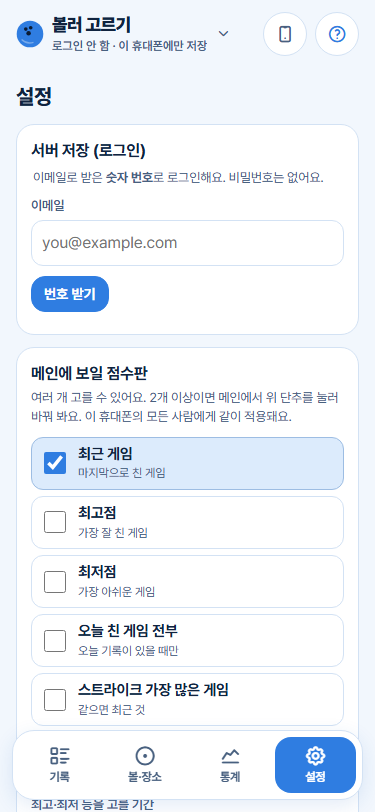
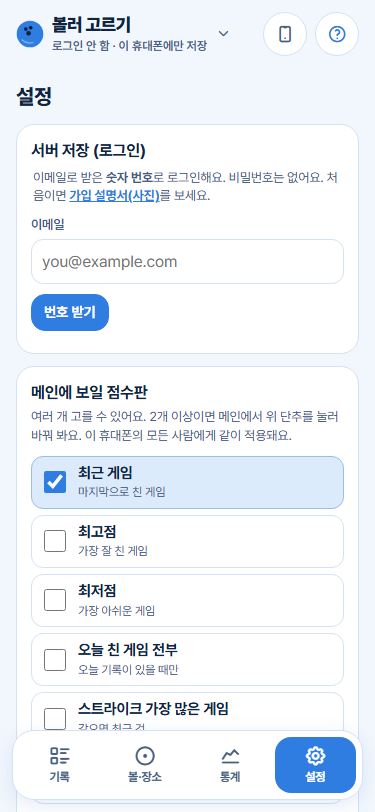
사진 가입 설명서(signup.html) · AI 기본 모델 Haiku · 설명서 사진 찍기 도구

Changed region(s): [[0.0587, 0.2155, 0.9387, 0.9236], [0.088, 0.9852, 0.4107, 1.0], [0.88, 0.2155, 0.9093, 0.2463]]

diff --git a/signup.html b/signup.html
@@ -1,0 +1,211 @@
+<!doctype html>
+<html lang="ko">
+<head>
+<meta charset="utf-8">
+<meta name="viewport" content="width=device-width, initial-scale=1, viewport-fit=cover">
+<meta name="theme-color" content="#f2f7fd">
+<title>볼링 연습일지 가입 설명서</title>
+<link rel="icon" type="image/png" href="icons/icon-192.png">
+<link rel="stylesheet" href="https://cdn.jsdelivr.net/gh/orioncactus/pretendard@v1.3.9/dist/web/variable/pretendardvariable-dynamic-subset.min.css">
+<link rel="stylesheet" href="https://cdn.jsdelivr.net/npm/@tabler/icons-webfont@3.19.0/dist/tabler-icons.min.css">
+<style>
+:root{--bg:#f2f7fd;--card:#fff;--ink:#10233f;--muted:#48607f;--line:#d3e2f4;--accent:#2f7de1;--accent-2:#dcebfc;--hero:#dcebfc;--tip:#fef3c7;--tip-ink:#92400e;--ok:#dcfce7;--ok-ink:#166534;--on-accent:#fff;--frame:#10233f;--red:#ef4444}
+@media (prefers-color-scheme: dark){:root:not([data-theme="light"]){--bg:#0b1424;--card:#121e33;--ink:#e6eef9;--muted:#9fb3cc;--line:#24344f;--accent:#60a5fa;--accent-2:#17304f;--hero:#15294a;--tip:#3a2e0b;--tip-ink:#fcd34d;--ok:#12331f;--ok-ink:#86efac;--on-accent:#0b1424;--frame:#24344f}}
+:root[data-theme="dark"]{--bg:#0b1424;--card:#121e33;--ink:#e6eef9;--muted:#9fb3cc;--line:#24344f;--accent:#60a5fa;--accent-2:#17304f;--hero:#15294a;--tip:#3a2e0b;--tip-ink:#fcd34d;--ok:#12331f;--ok-ink:#86efac;--on-accent:#0b1424;--frame:#24344f}
+*{box-sizing:border-box}
+body{margin:0;background:var(--bg);color:var(--ink);font:17px/1.65 "Pretendard Variable",Pretendard,system-ui,-apple-system,"Apple SD Gothic Neo","Malgun Gothic",sans-serif;letter-spacing:-.01em}
+.ti{vertical-align:-.12em}
+header{padding:20px 16px 4px;padding-top:calc(20px + env(safe-area-inset-top))}
+header .in{max-width:760px;margin:0 auto;background:var(--hero);border:1px solid var(--line);border-radius:22px;padding:20px}
+h1{margin:0;font-size:26px;font-weight:900;letter-spacing:-.03em}
+header p{margin:6px 0 0;color:var(--muted)}
+.btns{display:flex;gap:8px;flex-wrap:wrap;margin-top:14px}
+.back{display:inline-flex;align-items:center;gap:6px;min-height:48px;background:var(--accent);color:var(--on-accent);text-decoration:none;border-radius:14px;padding:8px 18px;font-weight:700}
+.back.line{background:var(--card);color:var(--accent);border:1px solid var(--line)}
+main{max-width:760px;margin:0 auto;padding:12px 16px 40px}
+.need{background:var(--card);border:1px solid var(--line);border-radius:18px;padding:16px;margin-bottom:16px}
+.need h2{margin:0 0 10px;font-size:19px}
+.need ul{list-style:none;margin:0;padding:0;display:grid;gap:8px}
+.need li{display:flex;gap:12px;align-items:flex-start;background:var(--accent-2);border-radius:14px;padding:10px 12px}
+.need li i{font-size:26px;color:var(--accent);flex:none;margin-top:2px}
+.need li b{display:block}
+.need li span{font-size:15px;color:var(--muted)}
+.step{display:grid;grid-template-columns:1fr 240px;gap:18px;align-items:start;background:var(--card);border:1px solid var(--line);border-radius:18px;padding:18px;margin-bottom:14px}
+.step.noshot{grid-template-columns:1fr}
+.step h2{display:flex;align-items:center;gap:10px;margin:0 0 8px;font-size:21px;font-weight:900;letter-spacing:-.02em}
+.num{display:inline-flex;align-items:center;justify-content:center;width:38px;height:38px;border-radius:50%;background:var(--accent);color:var(--on-accent);font-weight:900;font-size:19px;flex:none}
+.do{font-size:19px;font-weight:700;margin:4px 0 8px}
+.step p{margin:6px 0}
+.key{display:inline-block;border:1px solid var(--line);background:var(--accent-2);color:var(--accent);border-radius:8px;padding:0 8px;font-weight:800;white-space:nowrap}
+.red{color:var(--red);font-weight:800}
+.tip{background:var(--tip);border-radius:12px;padding:10px 14px;font-size:15px;margin-top:10px}
+.tip b{color:var(--tip-ink)}
+.ok{background:var(--ok);color:var(--ok-ink);border-radius:12px;padding:10px 14px;font-size:15px;margin-top:10px;font-weight:600}
+.shot{margin:0}
+.shot img{display:block;width:100%;border-radius:20px;border:5px solid var(--frame);background:var(--frame);cursor:zoom-in}
+.shot figcaption{font-size:13px;color:var(--muted);text-align:center;margin-top:6px}
+.addr{display:block;margin:8px 0;padding:12px 14px;border-radius:12px;background:var(--accent-2);color:var(--accent);font-weight:800;word-break:break-all;text-decoration:none}
+.two{display:grid;grid-template-columns:1fr 1fr;gap:10px;margin-top:8px}
+.two div{border:1px solid var(--line);border-radius:12px;padding:10px 12px;font-size:15px}
+.two b{display:block;margin-bottom:4px}
+.faq{background:var(--card);border:1px solid var(--line);border-radius:18px;padding:6px 16px;margin-top:20px}
+.faq h2{font-size:20px;margin:12px 0 4px}
+details{border-top:1px solid var(--line);padding:12px 0}
+details:first-of-type{border-top:0}
+summary{font-weight:800;cursor:pointer;min-height:32px}
+details p,details ul{margin:6px 0 0;font-size:16px}
+.viewer{position:fixed;inset:0;background:rgba(0,0,0,.9);display:flex;align-items:center;justify-content:center;z-index:9}
+.viewer img{max-width:100%;max-height:100%}
+footer{text-align:center;color:var(--muted);font-size:13px;padding:10px 0 30px}
+@media (max-width:640px){
+  .step{grid-template-columns:1fr}
+  .shot{max-width:280px;margin:6px auto 0}
+  .two{grid-template-columns:1fr}
+}
+</style>
+</head>
+<body>
+<header><div class="in">
+  <h1>가입 설명서</h1>
+  <p>기록을 서버에도 저장하려면 처음 한 번 가입해요. 천천히 해도 <b>5분</b>이면 끝나요. 사진에서 <span class="red">빨간 테두리</span>를 누르면 돼요.</p>
+  <div class="btns">
+    <a class="back" href="./#settings"><i class="ti ti-arrow-left" aria-hidden="true"></i> 앱으로 가기</a>
+    <a class="back line" href="help.html"><i class="ti ti-book" aria-hidden="true"></i> 전체 사용 설명서</a>
+  </div>
+</div></header>
+<main>
+  <section class="need">
+    <h2>준비할 것 3가지</h2>
+    <ul>
+      <li><i class="ti ti-device-mobile" aria-hidden="true"></i><div><b>휴대폰</b><span>볼링 연습일지 앱(주소)을 연 휴대폰</span></div></li>
+      <li><i class="ti ti-mail" aria-hidden="true"></i><div><b>이메일 주소</b><span>지금 메일을 열어 볼 수 있는 주소 (네이버·지메일·다음 다 돼요). 비밀번호는 필요 없어요.</span></div></li>
+      <li><i class="ti ti-key" aria-hidden="true"></i><div><b>초대 코드</b><span>모임 단톡방에서 받은 영어·숫자 8자리 (예: A1B2C3D4)</span></div></li>
+    </ul>
+  </section>
+
+  <section class="step noshot">
+    <div>
+      <h2><span class="num">1</span>앱 열기</h2>
+      <p class="do">휴대폰에서 아래 주소를 눌러 앱을 열어요.</p>
+      <a class="addr" href="./">https://sunboys20.github.io/bowling-diary/</a>
+      <p>홈 화면에 아이콘을 만들어 두면 다음부터 편해요.</p>
+      <div class="two">
+        <div><b><i class="ti ti-brand-android" aria-hidden="true"></i> 안드로이드</b>크롬 오른쪽 위 <span class="key">⋮</span> → <span class="key">홈 화면에 추가</span></div>
+        <div><b><i class="ti ti-brand-apple" aria-hidden="true"></i> 아이폰</b>사파리 아래 <span class="key"><i class="ti ti-share-2" aria-hidden="true"></i></span> → <span class="key">홈 화면에 추가</span></div>
+      </div>
+    </div>
+  </section>
+
+  <section class="step">
+    <div>
+      <h2><span class="num">2</span>[설정] 누르기</h2>
+      <p class="do">화면 맨 아래 오른쪽 <span class="key"><i class="ti ti-settings" aria-hidden="true"></i> 설정</span>을 눌러요.</p>
+      <p>처음이면 "누가 쓰나요?"가 먼저 나올 수 있어요. 아무 이름이나 누른 뒤 설정으로 가면 돼요. (이름은 나중에 바꿀 수 있어요)</p>
+    </div>
+    <figure class="shot"><img src="help/signup-1.png" alt="메인 화면, 맨 아래 오른쪽 설정 탭에 빨간 테두리" loading="lazy"><figcaption>맨 아래 [설정]</figcaption></figure>
+  </section>
+
+  <section class="step">
+    <div>
+      <h2><span class="num">3</span>이메일 쓰고 [번호 받기]</h2>
+      <p class="do">설정 맨 위 <b>서버 저장</b> 칸에 내 이메일을 쓰고 <span class="key">번호 받기</span>를 눌러요.</p>
+      <p>"메일을 보냈어요"가 잠깐 뜨고, 번호 넣는 칸이 나와요. <b>앱은 그대로 두고</b> 다음으로 가요.</p>
+    </div>
+    <figure class="shot"><img src="help/signup-2.png" alt="서버 저장 칸에 이메일을 쓰고 번호 받기 단추에 빨간 테두리" loading="lazy"><figcaption>이메일 → [번호 받기]</figcaption></figure>
+  </section>
+
+  <section class="step noshot">
+    <div>
+      <h2><span class="num">4</span>메일함에서 번호 보기</h2>
+      <p class="do">휴대폰의 메일 앱(네이버 메일, Gmail 등)을 열어 방금 온 메일을 봐요.</p>
+      <ul>
+        <li>메일 안에 <b>숫자 번호</b>(예: 48203917)가 있어요. 이 숫자를 기억하거나 길게 눌러 복사해요.</li>
+        <li><b>메일 안의 링크나 단추는 누르지 마세요.</b> 번호만 쓰면 돼요.</li>
+        <li>1~2분 기다려도 없으면 <b>스팸함(정크메일)</b>을 봐요.</li>
+      </ul>
+      <div class="tip"><b>번호는 잠깐만 써요</b> — 시간이 지나면 안 맞을 수 있어요. 메일을 보고 바로 앱으로 돌아오세요.</div>
+    </div>
+  </section>
+
+  <section class="step">
+    <div>
+      <h2><span class="num">5</span>번호 넣고 [로그인]</h2>
+      <p class="do">앱으로 돌아와 <b>받은 번호</b> 칸에 숫자를 넣고 <span class="key">로그인</span>을 눌러요.</p>
+      <p>번호가 안 맞다고 나오면 <span class="key">다른 이메일 / 다시 받기</span>를 눌러 3번부터 다시 해요.</p>
+    </div>
+    <figure class="shot"><img src="help/signup-3.png" alt="받은 번호 칸에 숫자를 넣고 로그인 단추에 빨간 테두리" loading="lazy"><figcaption>번호 → [로그인]</figcaption></figure>
+  </section>
+
+  <section class="step">
+    <div>
+      <h2><span class="num">6</span>초대 코드 넣고 [가입하기]</h2>
+      <p class="do">모임에서 받은 <b>초대 코드</b>를 넣고 <span class="key">가입하기</span>를 눌러요.</p>
+      <p>대문자·소문자는 상관없어요. <b>처음 한 번만</b> 해요. 다음부터는 이 칸이 안 나와요.</p>
+    </div>
+    <figure class="shot"><img src="help/signup-4.png" alt="초대 코드 칸에 코드를 넣고 가입하기 단추에 빨간 테두리" loading="lazy"><figcaption>초대 코드 → [가입하기]</figcaption></figure>
+  </section>
+
+  <section class="step">
+    <div>
+      <h2><span class="num">7</span>[서버에도] 누르기</h2>
+      <p class="do">"✓ 모임 회원"이 보이면, <b>저장 방식</b>에서 <span class="key">서버에도</span>를 눌러요.</p>
+      <p>"이 휴대폰 기록을 서버로 올릴까요?"가 나오면 <span class="key">확인</span>을 눌러요. 처음 쓰는 휴대폰이면 이 질문 없이 바로 돼요.</p>
+    </div>
+    <figure class="shot"><img src="help/signup-5.png" alt="저장 방식에서 서버에도 단추에 빨간 테두리" loading="lazy"><figcaption>저장 방식 → [서버에도]</figcaption></figure>
+  </section>
+
+  <section class="step">
+    <div>
+      <h2><span class="num">8</span>끝! 이렇게 보이면 성공</h2>
+      <p class="do">맨 위 이름 아래에 <b>내 이메일 · 서버에도 저장</b>이 보이면 가입 끝이에요.</p>
+      <p>이제 일지를 저장하면 휴대폰에 먼저 저장되고, 인터넷이 되면 <b>저절로</b> 서버에도 올라가요. 따로 누를 건 없어요.</p>
+      <div class="ok"><i class="ti ti-circle-check" aria-hidden="true"></i> 휴대폰을 바꾸거나 잃어버려도 기록이 서버에 남아요.</div>
+    </div>
+    <figure class="shot"><img src="help/signup-6.png" alt="머리글에 이메일 서버에도 저장 표시와 마지막으로 맞춘 때에 빨간 테두리" loading="lazy"><figcaption>맨 위: 이메일 · 서버에도 저장</figcaption></figure>
+  </section>
+
+  <section class="step noshot">
+    <div>
+      <h2><span class="num">9</span>다른 휴대폰·컴퓨터에서도 보려면</h2>
+      <p class="do">그 기기에서 앱 주소를 열고 <b>2 → 3 → 4 → 5 → 7번</b>만 해요. (초대 코드는 다시 안 물어요)</p>
+      <p><b>같은 이메일</b>로 로그인해야 같은 기록이 보여요.</p>
+    </div>
+  </section>
+
+  <section class="step">
+    <div>
+      <h2><span class="num">10</span>로그아웃 (필요할 때만)</h2>
+      <p>평소에는 로그아웃할 필요 없어요. 남의 휴대폰·회사 컴퓨터처럼 <b>같이 쓰는 기기</b>에서 썼다면 <span class="key">로그아웃</span>을 누르고,</p>
+      <p>"이 기기에 남은 기록과 AI 키도 지울까요?"에서 <span class="key">확인</span>을 눌러요. <b>서버의 기록은 지워지지 않아요.</b></p>
+    </div>
+    <figure class="shot"><img src="help/signup-7.png" alt="서버 저장 칸의 로그아웃 단추에 빨간 테두리" loading="lazy"><figcaption>[로그아웃]</figcaption></figure>
+  </section>
+
+  <section class="faq">
+    <h2>잘 안 될 때</h2>
+    <details><summary>메일이 안 와요</summary>
+      <ul><li>1~2분 기다린 뒤 <b>스팸함·정크메일함</b>을 봐요.</li><li>이메일 주소에 오타가 없는지 봐요. <span class="key">다른 이메일 / 다시 받기</span>로 고칠 수 있어요.</li><li>여러 번 누르면 "너무 자주 보냈어요"가 나와요. 2분쯤 뒤에 다시 해요.</li></ul></details>
+    <details><summary>"번호가 맞지 않거나 시간이 지났어요"가 나와요</summary>
+      <p>가장 <b>최근에 온 메일</b>의 번호인지 봐요. 그래도 안 되면 <span class="key">다른 이메일 / 다시 받기</span> → 새 번호를 받아요.</p></details>
+    <details><summary>"초대 코드가 맞지 않아요"가 나와요</summary>
+      <p>코드를 다시 확인해요. 숫자 0과 영어 O, 숫자 1과 영어 I를 헷갈리기 쉬워요. 여러 번 틀리면 1시간 동안 막혀요. 모르겠으면 모임 관리자에게 물어보세요.</p></details>
+    <details><summary>"인원이 다 찼어요" / "기한이 지난 코드예요"가 나와요</summary>
+      <p>모임 관리자에게 새 초대 코드를 달라고 하세요.</p></details>
+    <details><summary>맨 위에 빨간 "서버 맞추기 문제"가 보여요</summary>
+      <p>인터넷이 잠깐 끊겼을 때 보여요. 기록은 휴대폰에 안전하게 있어요. 인터넷이 되면 <span class="key">설정</span> › <span class="key">지금 맞추기</span>를 눌러요. 계속 보이면 그 화면을 찍어 관리자에게 보내 주세요.</p></details>
+    <details><summary>"올릴 것 N개"가 보여요</summary>
+      <p>아직 서버로 못 올린 기록이 있다는 뜻이에요. 인터넷이 되면 저절로 올라가요. 걱정하지 않아도 돼요.</p></details>
+  </section>
+</main>
+<footer>사진 속 이름·이메일·번호·코드는 예시예요.</footer>
+<script>
+document.querySelectorAll('.shot img').forEach(im => im.onclick = () => {
+  const ov = document.createElement('div'); ov.className = 'viewer';
+  ov.innerHTML = '<img alt="">'; ov.firstChild.src = im.src; ov.firstChild.alt = im.alt;
+  const close = () => { ov.remove(); document.removeEventListener('keydown', k); };
+  const k = e => { if (e.key === 'Escape') close(); };
+  ov.onclick = close; document.addEventListener('keydown', k); document.body.append(ov);
+});
+</script>
+</body>
+</html>

diff --git a/index.html b/index.html
@@ -1135,7 +1135,8 @@ $('#filePick').addEventListener('change', async e => {
 
 /* ---------- AI reading of a scoreboard photo (Claude API, called from this phone) ---------- */
 const SDK_URL = 'https://cdn.jsdelivr.net/npm/@anthropic-ai/sdk@1.6.0/+esm';
-const AI_MODELS = [['claude-opus-5-5', 'Claude Opus 5.5 — 가장 정확 (기본)'], ['claude-haiku-5-5', 'Claude Haiku 5.5 — 훨씬 싸고 빠름']];
+const AI_MODELS = [['claude-haiku-5-5', 'Haiku 5.5 — 추천 · 싸고 빠름'], ['claude-opus-5-5', 'Opus 5.5 — 가장 정확 · 비쌈']];
+const AI_DEFAULT = 'claude-haiku-5-5';
 const MARK_ENUM = ['X', '/', '-', 'F', '0', '1', '2', '3', '4', '5', '6', '7', '8', '9'];
 const NUM_OR_NULL = { anyOf: [{ type: 'integer' }, { type: 'null' }] };
 const SCORE_SCHEMA = {
@@ -1174,7 +1175,7 @@ function loadSDK() {
 }
 async function readScoreboard(blob) {
   const apiKey = await getMeta('aiKey');
-  const model = (await getMeta('aiModel')) || 'claude-opus-5-5';
+  const model = (await getMeta('aiModel')) || AI_DEFAULT;
   let Anthropic;
   try { Anthropic = await loadSDK(); } catch (e) { const err = new Error('SDK_LOAD'); err.cause = e; throw err; }
   const client = new Anthropic({ apiKey, dangerouslyAllowBrowser: true });
@@ -1547,7 +1548,7 @@ async function renderServerCard() {
   const busy = (btn, on) => { btn.disabled = on; btn.dataset.t = btn.dataset.t || btn.textContent; btn.textContent = on ? '잠시만요…' : btn.dataset.t; };
 
   if (!st.user && !sbPendingEmail) {
-    box.innerHTML = head + `<p class="hint">이메일로 받은 <b>숫자 번호</b>로 로그인해요. 비밀번호는 없어요.</p>
+    box.innerHTML = head + `<p class="hint">이메일로 받은 <b>숫자 번호</b>로 로그인해요. 비밀번호는 없어요. 처음이면 <a href="signup.html" style="color:var(--accent);font-weight:700">가입 설명서(사진)</a>를 보세요.</p>
       <label class="f" for="sbEmail">이메일</label>
       <input type="email" id="sbEmail" autocomplete="email" inputmode="email" placeholder="you@example.com">
       <div class="actions" style="margin-top:10px"><button type="button" class="btn primary small" id="sbSend">번호 받기</button></div>`;
@@ -1584,7 +1585,7 @@ async function renderServerCard() {
   const who = `<p class="hint">로그인: <b>${esc(st.user.email)}</b></p>`;
   const out = '<button type="button" class="btn small" id="sbOut">로그아웃</button>';
   if (!st.member) {
-    box.innerHTML = head + who + `<p class="hint">모임에서 받은 <b>초대 코드</b>를 넣어야 서버를 쓸 수 있어요.</p>
+    box.innerHTML = head + who + `<p class="hint">모임에서 받은 <b>초대 코드</b>를 넣어야 서버를 쓸 수 있어요. <a href="signup.html" style="color:var(--accent);font-weight:700">가입 설명서</a></p>
       <label class="f" for="sbInvite">초대 코드</label>
       <input id="sbInvite" autocomplete="off" autocapitalize="characters" maxlength="20" placeholder="예: AB12CD34" style="text-transform:uppercase">
       <div class="actions" style="margin-top:10px"><button type="button" class="btn primary small" id="sbJoin">가입하기</button>${out}</div>`;
@@ -1827,7 +1828,7 @@ async function wipeLocal(withKey, fresh = true) {
 /* ---------- settings / backup ---------- */
 async function renderSettings() {
   const last = await getMeta('lastBackup');
-  const aiKey = !!(await getMeta('aiKey')), aiModel = (await getMeta('aiModel')) || 'claude-opus-5-5';
+  const aiKey = !!(await getMeta('aiKey')), aiModel = (await getMeta('aiModel')) || AI_DEFAULT;
   let est = '';
   try { if (navigator.storage && navigator.storage.estimate) { const e = await navigator.storage.estimate(); est = `사용 중 ${(e.usage / 1048576).toFixed(1)} MB`; } } catch (e) { /* ignore */ }
   const hb = await homeConf();

diff --git a/tools/_shot.html b/tools/_shot.html
@@ -8,10 +8,38 @@ const s = location.hash.slice(1);
 const f = document.getElementById('f');
 const sleep = ms => new Promise(r => setTimeout(r, ms));
 const START = { who: 'who', names: 'settings', server: 'settings', gear: 'balls', edit: 'edit/new', pad: 'edit/new', fix: 'edit/demo-d1', list: 'list', view: 'view/demo-d9', photos: 'photos', backup: 'settings', main: 'settings' };
-f.src = (s === 'server' ? '/' : '/?demo') + '#' + (START[s] || 'list');
+const SIGNUP = /^g\d$/.test(s); // 가입 설명서 사진 (signup.html): 가짜 서버로 로그인 단계 화면을 만든다
+f.src = (s === 'server' || SIGNUP ? '/' : '/?demo') + '#' + (SIGNUP ? 'list' : START[s] || 'list');
+async function signupShot(w, d, q) {
+  // 헤드리스 크롬에서 저장 공간 크기 묻기가 끝나지 않아 설정 화면이 안 그려짐 → 가짜 값
+  try { Object.defineProperty(w.navigator, 'storage', { configurable: true, value: { estimate: async () => ({ usage: 2.1e5 }), persist: async () => true } }); } catch (e) { /* ignore */ }
+  const EMAIL = 'hong@gmail.com';
+  const st = { user: '', member: false, rows: 0 };
+  const fake = { auth: { getSession: async () => ({ data: { session: st.user ? { user: { id: 'u1', email: st.user } } : null } }), signOut: async () => ({}) },
+    from: () => ({ select: () => ({ maybeSingle: async () => ({ data: st.member ? { user_id: 'u1' } : null, error: null }), eq: async () => ({ count: st.rows, error: null }) }) }),
+    rpc: async () => ({ data: 'ok', error: null }) };
+  w.sbClient = () => Promise.resolve(fake);
+  w.eval("profiles[0].name = '홍길동'; CUR = profiles[0];");
+  // 누를 곳에 빨간 테두리
+  const mark = (el, pad = 6) => { if (!el) return; const r = el.getBoundingClientRect(), o = d.createElement('div');
+    o.style.cssText = `position:absolute;left:${r.left - pad + w.scrollX}px;top:${r.top - pad + w.scrollY}px;width:${r.width + pad * 2}px;height:${r.height + pad * 2}px;border:4px solid #ef4444;border-radius:16px;box-shadow:0 0 0 5px rgba(239,68,68,.25);z-index:999;pointer-events:none`;
+    d.body.append(o); };
+  const settings = async () => { w.history.replaceState(null, '', '#settings'); await w.render(); await sleep(900); w.scrollTo(0, 0); };
+  if (s === 'g1') { w.history.replaceState(null, '', '#list'); await w.render(); await sleep(600); mark(q('#tabs a[data-tab="settings"]'), 2); return; }
+  if (s === 'g2') { await settings(); q('#sbEmail').value = EMAIL; mark(q('#sbSend')); return; }
+  if (s === 'g3') { w.eval(`sbPendingEmail = '${EMAIL}'`); await settings(); q('#sbCode').value = '48203917'; mark(q('#sbVerify')); return; }
+  st.user = EMAIL; w.localStorage.setItem('bowling-diary-auth', JSON.stringify({ user: { email: EMAIL } }));
+  if (s === 'g4') { await settings(); q('#sbInvite').value = 'A1B2C3D4'; mark(q('#sbJoin')); return; }
+  st.member = true;
+  if (s === 'g5') { await settings(); mark(q('#syncMode label:nth-child(2)')); return; }
+  st.rows = 12; w.eval('SYNC.on = true; SYNC.lastOk = Date.now(); SYNC.pending = 0; SYNC.error = "";');
+  if (s === 'g6') { await settings(); w.topBar(); mark(q('.top .me'), 2); mark(q('#syncStat'), 4); return; }
+  if (s === 'g7') { await settings(); w.topBar(); mark(q('#sbOut')); return; }
+}
 f.onload = async () => {
   const w = f.contentWindow, d = w.document, q = x => d.querySelector(x);
   await sleep(2500);
+  if (SIGNUP) return signupShot(w, d, q);
   const top = el => { if (el) w.scrollTo(0, el.getBoundingClientRect().top + w.scrollY - 70); };
   if (s === 'names') top(q('#profs').closest('.card'));
   if (s === 'main') top(q('#hbOpts').closest('.card'));

diff --git a/help.html b/help.html
@@ -60,6 +60,7 @@ footer{text-align:center;color:var(--muted);font-size:13px;padding:10px 0 30px}
   <p>처음 열었을 때 이 순서대로 하면 5분이면 준비가 끝나요. 먼저 둘러보고 싶으면 예시 기록으로 체험해 보세요.</p>
   <div class="btns">
     <a class="back" href="./"><i class="ti ti-arrow-left" aria-hidden="true"></i> 앱으로 돌아가기</a>
+    <a class="back line" href="signup.html"><i class="ti ti-user-plus" aria-hidden="true"></i> 가입 설명서</a>
     <a class="back line" href="./?demo#list"><i class="ti ti-player-play" aria-hidden="true"></i> 예시 기록으로 체험하기</a>
   </div>
 </div></header>
@@ -117,6 +118,7 @@ footer{text-align:center;color:var(--muted);font-size:13px;padding:10px 0 30px}
   <section class="step" id="s3">
     <div>
       <h2><span class="num">3</span>서버 저장 (로그인)</h2>
+      <p><a href="signup.html" style="color:var(--accent);font-weight:800"><i class="ti ti-photo" aria-hidden="true"></i> 사진으로 한 단계씩 보는 가입 설명서</a></p>
       <p>로그인해 두면 기록이 서버에도 저장돼서 <b>휴대폰을 바꾸거나 잃어버려도 남아요.</b> 비밀번호는 없어요. 필요한 건 <b>이메일 주소</b>와 모임에서 받은 <b>초대 코드</b>예요.</p>
       <ol>
         <li><span class="key">설정</span> 맨 위 <b>서버 저장</b>에 이메일을 넣고 <span class="key">번호 받기</span></li>
@@ -238,7 +240,7 @@ footer{text-align:center;color:var(--muted);font-size:13px;padding:10px 0 30px}
       <h2><span class="num">12</span>백업과 사진 AI (선택)</h2>
       <ul>
         <li><b>백업</b> — <span class="key">설정</span> › <span class="key">백업 파일 저장</span>. 서버에 로그인하지 않았다면 한 달에 한 번쯤 만들어 카톡 '나에게 보내기'나 구글 드라이브에 두세요. 휴대폰을 바꾸면 <span class="key">백업 파일 불러오기</span>.</li>
-        <li><b>사진 AI 자동 입력</b> — Anthropic 콘솔에서 만든 API 키를 <span class="key">설정</span> › <span class="key">사진 자동 입력 (AI)</span>에 넣으면, 점수판 사진으로 점수판을 자동으로 채워요. 사진 한 장마다 사용료가 조금 나와요. 콘솔에서 <b>월 사용 한도</b>를 꼭 정해 두세요. 키가 없어도 다른 기능은 모두 돼요.</li>
+        <li><b>사진 AI 자동 입력</b> — Anthropic 콘솔에서 만든 API 키를 <span class="key">설정</span> › <span class="key">사진 자동 입력 (AI)</span>에 넣으면, 점수판 사진으로 점수판을 자동으로 채워요. 사진 한 장마다 사용료가 조금 나와요(기본 모델 <b>Haiku</b>는 싸고 빨라요. 잘 못 읽으면 설정에서 Opus로 바꿔요). 콘솔에서 <b>월 사용 한도</b>를 꼭 정해 두세요. 키가 없어도 다른 기능은 모두 돼요.</li>
       </ul>
       <div class="tip"><b>AI가 읽은 뒤</b> — 앱이 계산한 누적 점수와 사진의 누적 점수가 다르면 그 칸이 빨갛게 나와요. 사진과 비교해 고치세요.</div>
     </div>

diff --git a/sw.js b/sw.js
@@ -1,8 +1,8 @@
 // Offline support: always try the network first for this site's own files (so updates arrive right away),
 // fall back to the saved copy when the bowling alley has no signal.
 // Fonts and icons from the CDN are versioned, so they are served from the saved copy first.
-const CACHE = 'bowling-diary-v2';
-const ASSETS = ['./', './index.html', './help.html', './manifest.webmanifest', './icons/icon-192.png', './icons/icon-512.png', './icons/apple-touch-icon.png'];
+const CACHE = 'bowling-diary-v3';
+const ASSETS = ['./', './index.html', './help.html', './signup.html', './manifest.webmanifest', './icons/icon-192.png', './icons/icon-512.png', './icons/apple-touch-icon.png'];
 const CDN_KEEP = [/^https:\/\/cdn\.jsdelivr\.net\/gh\/orioncactus\/pretendard@/, /^https:\/\/cdn\.jsdelivr\.net\/npm\/@tabler\/icons-webfont@/];
 
 self.addEventListener('install', e => {

diff --git a/CLAUDE.md b/CLAUDE.md
@@ -23,7 +23,7 @@
 |---|---|
 | `index.html` | 앱 전체 (화면·점수 계산 `BW`·IndexedDB 저장·인쇄·AI 사진 읽기). 버전 `APP_VER` |
 | `manifest.webmanifest`, `icons/` | 홈 화면 이름·아이콘 |
-| `help.html`, `help/*.png` | 사용 설명서. 사진은 체험 모드 화면을 375px 로 찍은 것 — 화면이 바뀌면 다시 찍는다: 로컬 서버를 켜고 `tools/_shot.html#이름`(who·names·server·gear·edit·pad·fix·list·main·view·photos·backup)을 크롬 `--headless=new --window-size=375,812 --virtual-time-budget=12000 --screenshot=...` 로 |
+| `help.html`, `help/*.png` | 사용 설명서. 사진은 체험 모드 화면을 375px 로 찍은 것 — 화면이 바뀌면 다시 찍는다: 로컬 서버를 켜고 `node tools/shots.mjs http://localhost:8153 [이름…]` (tools/_shot.html 화면을 크롬으로 찍음, 이름 없으면 전부). 가입 설명서 `signup.html` 사진은 `help/signup-*.png` |
 | `sw.js` | 오프라인 열기 (https 에서만 등록). 캐시 이름 `bowling-diary-v2` — 고치면 숫자를 올린다. 글꼴(Pretendard)·아이콘(Tabler) CDN 도 저장 |
 | `docs/server2.md`, `tools/setup_server2.ps1` | server2 예비 주소(8892) |
 | `docs/supabase.md` | 서버 방식(Supabase) 설계 초안 — 아직 앱에 반영 안 됨 |
@@ -31,7 +31,7 @@
 - 주소: https://sunboys20.github.io/bowling-diary/ — main 에 push 하면 1분쯤 뒤 반영.
 - 체험 모드: 주소 뒤 `?demo` — 따로 저장 공간 `bowling-diary-demo` 에 예시 기록(`seedDemo`)을 만든다. 서버·진짜 기록과 안 섞임.
 - 기록은 각 휴대폰 브라우저(IndexedDB)에만 있다. 주소가 바뀌면 기록이 안 보인다(주소별 저장).
-- AI 자동 입력: 브라우저에서 Claude API 직접 호출. SDK `@anthropic-ai/sdk@1.6.0` (jsdelivr ESM), 기본 모델 `claude-opus-5-5`, 키는 사용자가 [설정]에 넣는다.
+- AI 자동 입력: 브라우저에서 Claude API 직접 호출. SDK `@anthropic-ai/sdk@1.6.0` (jsdelivr ESM), 기본 모델 `claude-haiku-5-5`(`AI_DEFAULT`, 싸고 빠름 — 설정에서 Opus 5.5 로 바꿀 수 있음), 키는 사용자가 [설정]에 넣는다.
 
 ## 디자인
 - 글꼴 Pretendard, 아이콘 Tabler webfont (jsdelivr, 버전 고정). 색은 `:root` 변수 — 어두운 모드 두 곳(`@media`, `[data-theme=dark]`)도 같이 고친다.

diff --git a/HANDOFF.md b/HANDOFF.md
@@ -2,6 +2,9 @@
 
 ## 2026-11-26  서버 방식(Supabase) 설계 초안
 - 상태: 진행중 (서버 저장 숨김 풂·설명서 새로 씀 — 남은 일: 사용자가 supabase.sql 다시 실행(v0.7 칸) · 모임에 초대 코드 알림 · OTP 길이 6 으로(선택))
+- 2026-11-26 가입 설명서 signup.html (컴맹용, 10단계 + 잘 안 될 때) — 사진 help/signup-1~7.png 는 가짜 서버로 각 단계를 만들어 빨간 테두리로 누를 곳 표시. 앱 서버 저장 칸·help.html 에서 연결, sw.js 캐시 v3
+  사진 찍기: 로컬 서버(npx serve -l 8153 .) 켜고 `node tools/shots.mjs http://localhost:8153 [이름…]` (tools/_shot.html 화면을 크롬 원격 조종으로 찍음)
+- 2026-11-26 AI 기본 모델 Haiku 5.5 로 (추천·첫 선택, AI_DEFAULT). 이미 모델을 저장한 사람은 그대로
 - 2026-11-26 서버 저장 칸을 모두에게 보이게(설정 맨 위, 버전 5번 누르기 없앰). 설명서 help.html 12단계로 새로 씀(로그인·볼·장소·종류·메인 점수판·사진 모아보기) + 사진 12장 새로 찍음(help/*.png, tools/_shot.html 로 자동)
 - 2026-11-26 v0.7 (디자인 C 수정안 반영): 연한 파랑 색·밝은 머리글·떠 있는 아래 탭, 점수판 5칸×2줄(gridHTML, 누적 점수 약하게),
   메인(월 평균 원·지난달 비교·[오늘 일지][사진으로]·고른 점수판 단추로 바꿔 보기), 하루 일지 화면(게임 카드, 인쇄는 A4 기록지 그대로),
